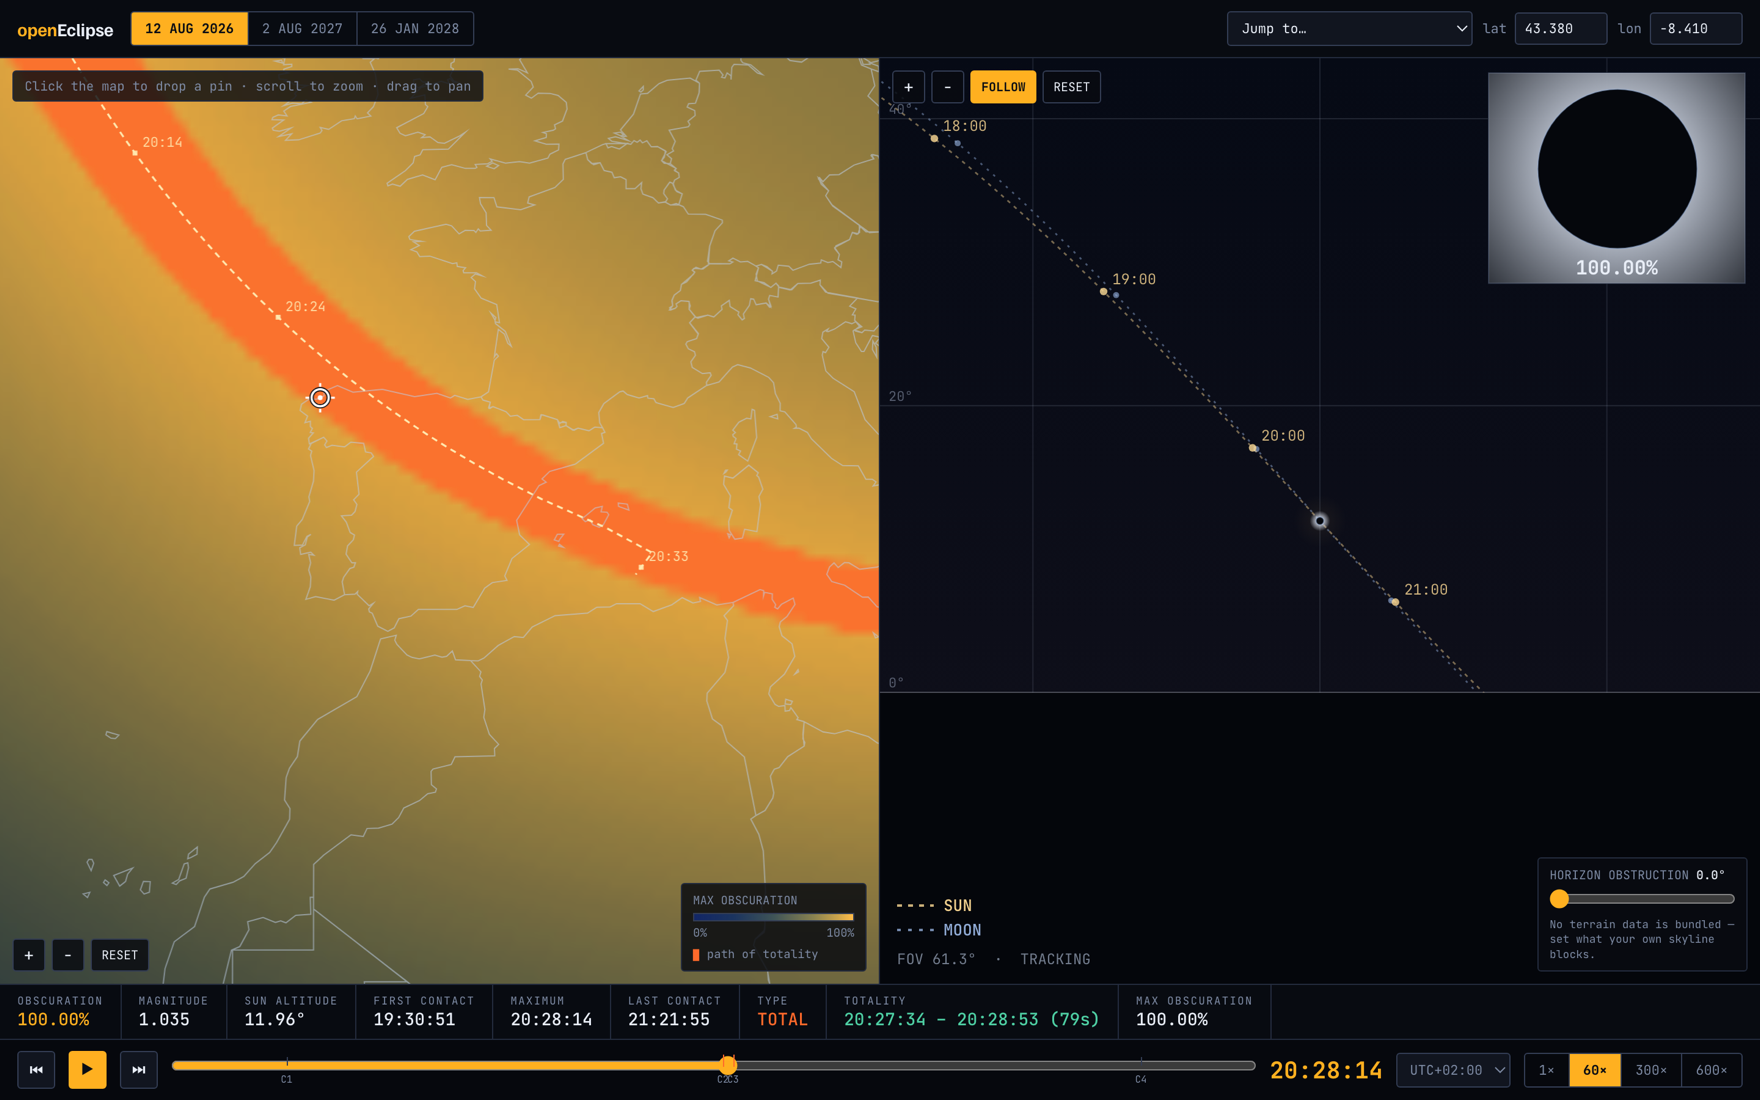
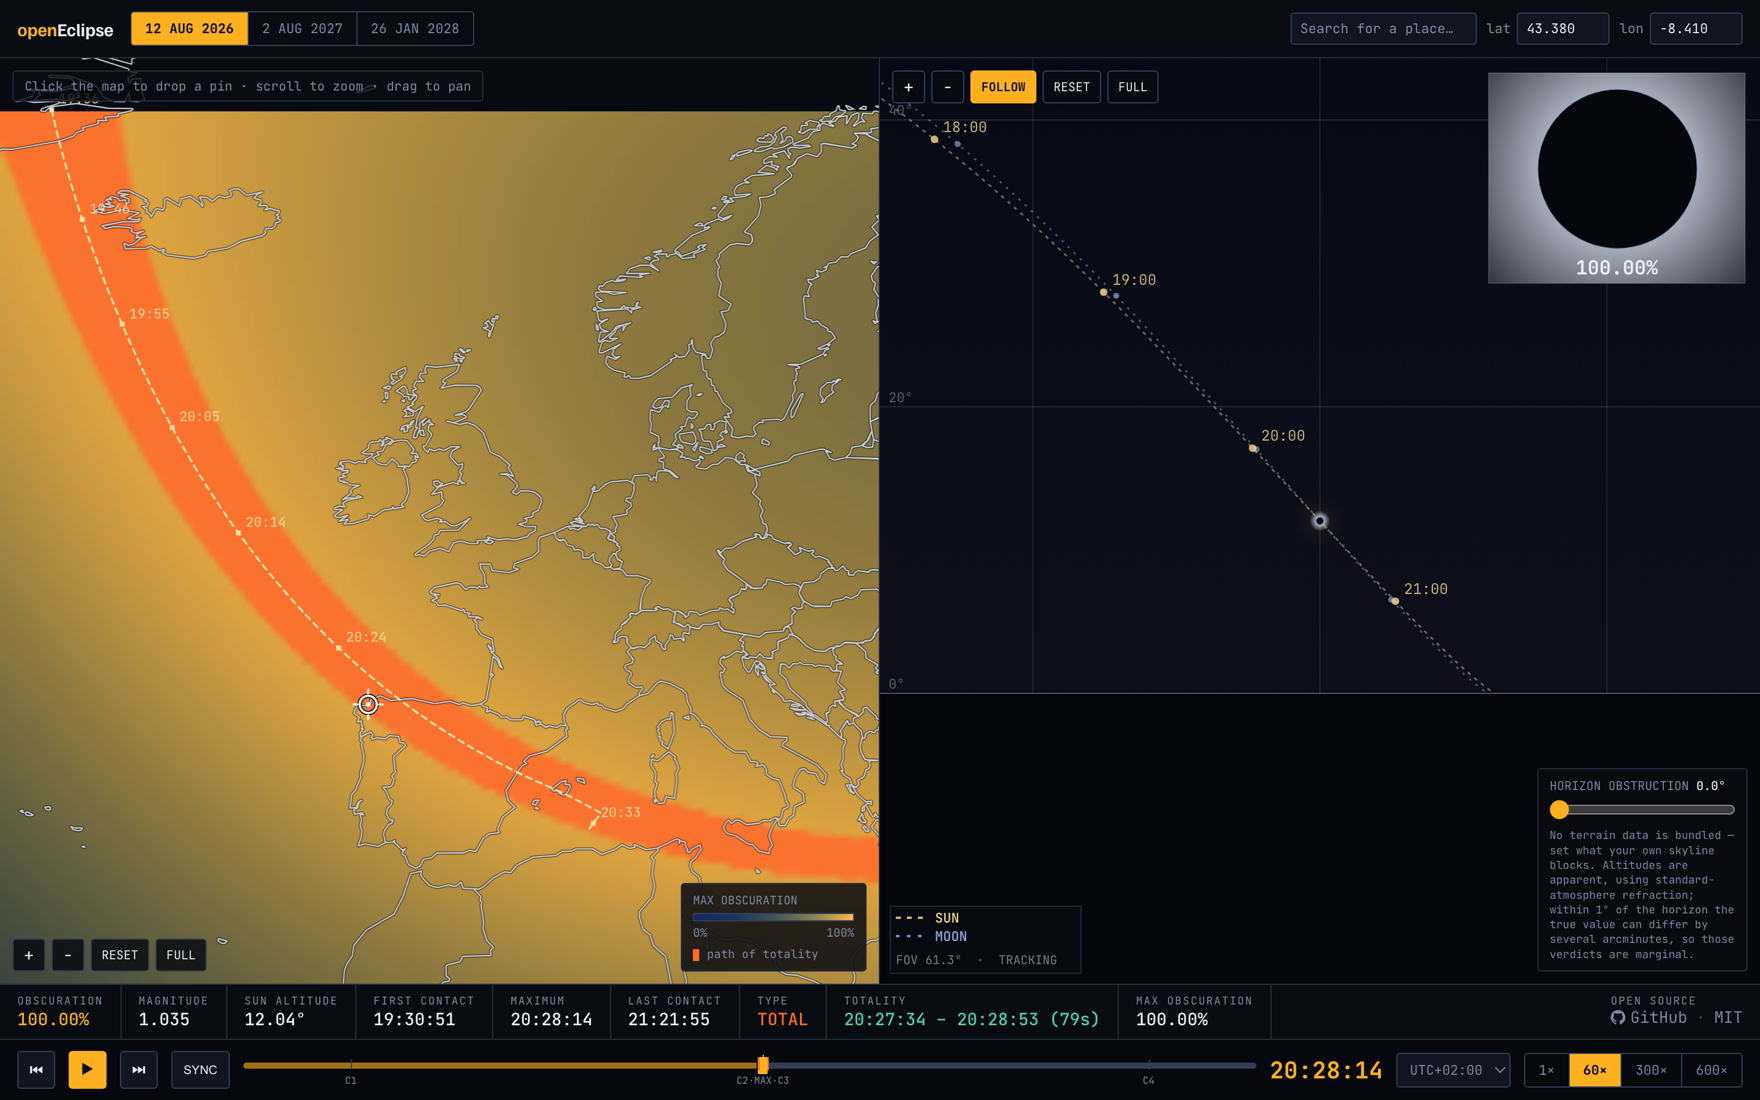
Refresh the README screenshot, and re-measure once fonts land
The screenshot still showed the original build. It now reflects the
current app: the path framed by default, grey coastlines, place search,
apparent altitude, the MAX marker and playhead, and SYNC.

Taking it exposed a real bug. fit() runs before the webfont loads, but
the font changes the height of the stats and transport bars, so the panes
are a different size afterwards. The canvases kept their pre-font
dimensions and fitPath framed against the wrong box, leaving a strip of
the obscuration grid's edge along the top of the map. Re-measuring on
document.fonts.ready fixes both.

diff --git a/index.html b/index.html
@@ -1254,6 +1254,12 @@ $("ilat").value=lat.toFixed(3); $("ilon").value=lon.toFixed(3);
 refreshContacts();
 fit();              // sizes the canvases, which fitPath needs to frame against
 fitPath(); drawMap();
+// The webfont changes the height of the stats and transport bars, so the panes
+// are a different size once it lands. Without re-measuring, the canvases keep
+// their pre-font dimensions and the framing is computed against the wrong box —
+// which showed as a strip of the obscuration grid's edge along the top.
+if(document.fonts&&document.fonts.ready)
+  document.fonts.ready.then(()=>{ fit(); fitPath(); drawMap(); });
 requestAnimationFrame(loop);
 </script>
 </body>

diff --git a/tools/sim_template.html b/tools/sim_template.html
@@ -1254,6 +1254,12 @@ $("ilat").value=lat.toFixed(3); $("ilon").value=lon.toFixed(3);
 refreshContacts();
 fit();              // sizes the canvases, which fitPath needs to frame against
 fitPath(); drawMap();
+// The webfont changes the height of the stats and transport bars, so the panes
+// are a different size once it lands. Without re-measuring, the canvases keep
+// their pre-font dimensions and the framing is computed against the wrong box —
+// which showed as a strip of the obscuration grid's edge along the top.
+if(document.fonts&&document.fonts.ready)
+  document.fonts.ready.then(()=>{ fit(); fitPath(); drawMap(); });
 requestAnimationFrame(loop);
 </script>
 </body>
